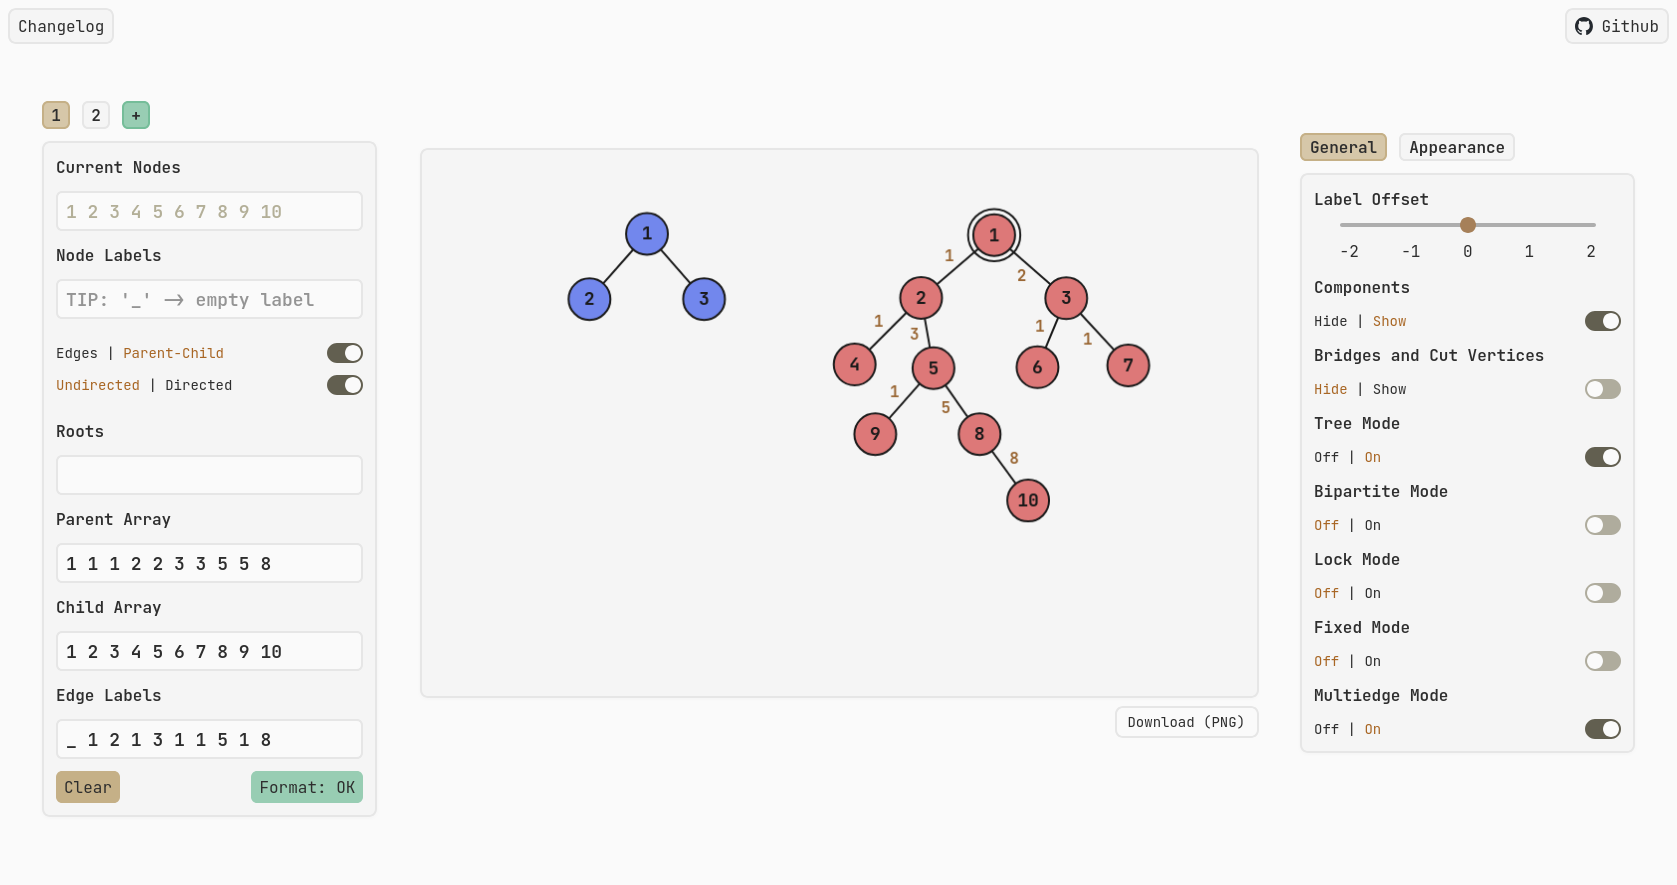
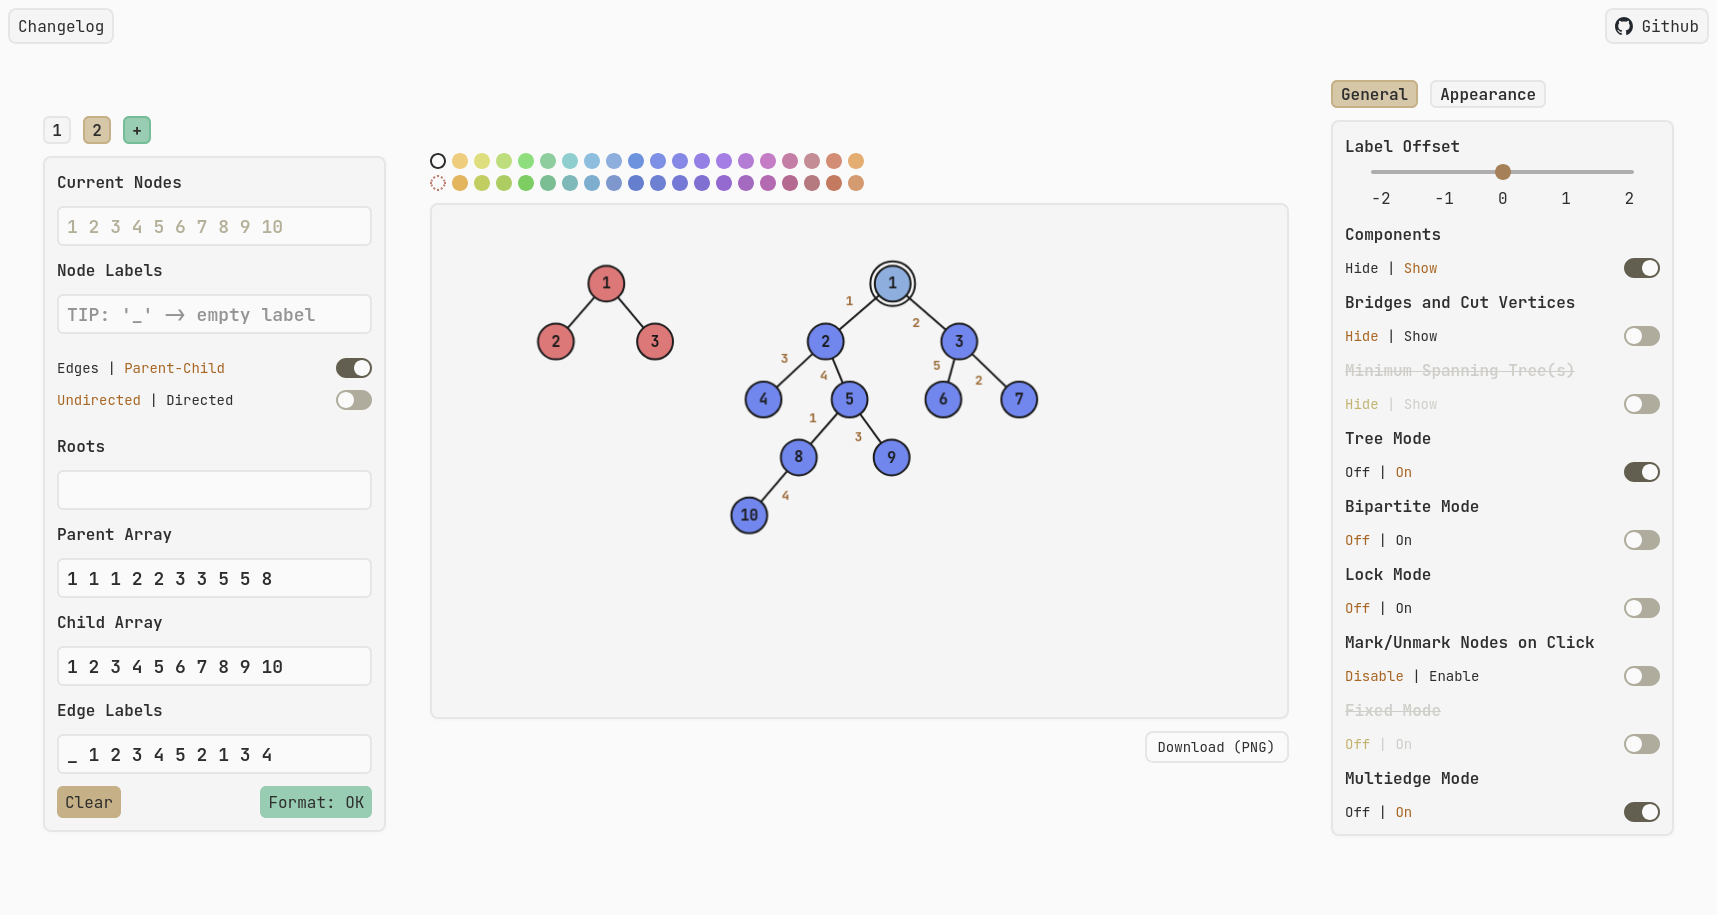
chore: update README

diff --git a/README.md b/README.md
@@ -31,8 +31,9 @@ Made with React, Typescript, Tailwind CSS, and HTML Canvas.
 - Undirected/directed graphs
 - Normal/tree/bipartite modes
 - Lock mode (fix marked nodes in place)
-- Show/hide bridges and cut vertices
-- Show/hide components
+- Bridges and cut vertices
+- (Strongly-connected) components
+- Minimum spanning tree(s)
 - Multi-edge support
 - Multi-testcase support
 
@@ -84,6 +85,17 @@ the red cross to delete it.
 > When you delete a tab, all graph data within that tab will be destroyed,
 > so please proceed with caution.
 
+## Node Coloring
+
+Using the palette situated above the main canvas, you may select a color
+and upon clicking a node, it'll take on your selected color.
+
+> [!CAUTION]
+> Your color will override those produced by *Components* or *Bipartite Mode*.
+
+The top leftmost circle in the palette resets the cursor to normal, while
+the red circle just below it erases the color of any colored node.
+
 ## Configuration
 
 There are two means of configuration: **General** and **Appearance**, the
@@ -107,6 +119,20 @@ A *cut vertice* (aka articulation point) is defined similarly.
 
 Bridges are represented with two parallel lines, while cut vertices take
 on a hexagonal shape.
+
+#### Minimum Spanning Tree(s)
+
+If *all* edge weights are provided and they are of numeric value, this mode
+becomes available. MSTs are computed for each component, and edges that
+are part of the MSTs are bolded.
+
+<p align="center">
+    <img src="screenshots/mst.png?" />
+</p>
+
+<p align="center">
+<em>A Minimum Spanning Tree</em>
+</p>
 
 #### Tree Mode
 
@@ -175,11 +201,18 @@ By default, the graph is in *Force Mode*, where edges hold everything together
 and nodes repel one another, creating a cool space-like effect. To disable
 this behavior, simply toggle *Lock Mode*.
 
+#### Mark/Unmark Nodes on Click
+
+When enabled, you may *mark* a node by clicking it. These nodes have a double
+border.
+
+> [!TIP]
+> If you prefer to color nodes instead, you might want to disable this
+> feature.
+
 #### Fixed Mode
 
-You may *mark* a node by clicking it, these nodes have a double border. By
-default, they'll float around as usual. If you wish to fix them in place,
-toggle *Fixed Mode*.
+If you wish to fix *marked nodes* in place, toggle *Fixed Mode*.
 
 #### Multiedge Mode
 
